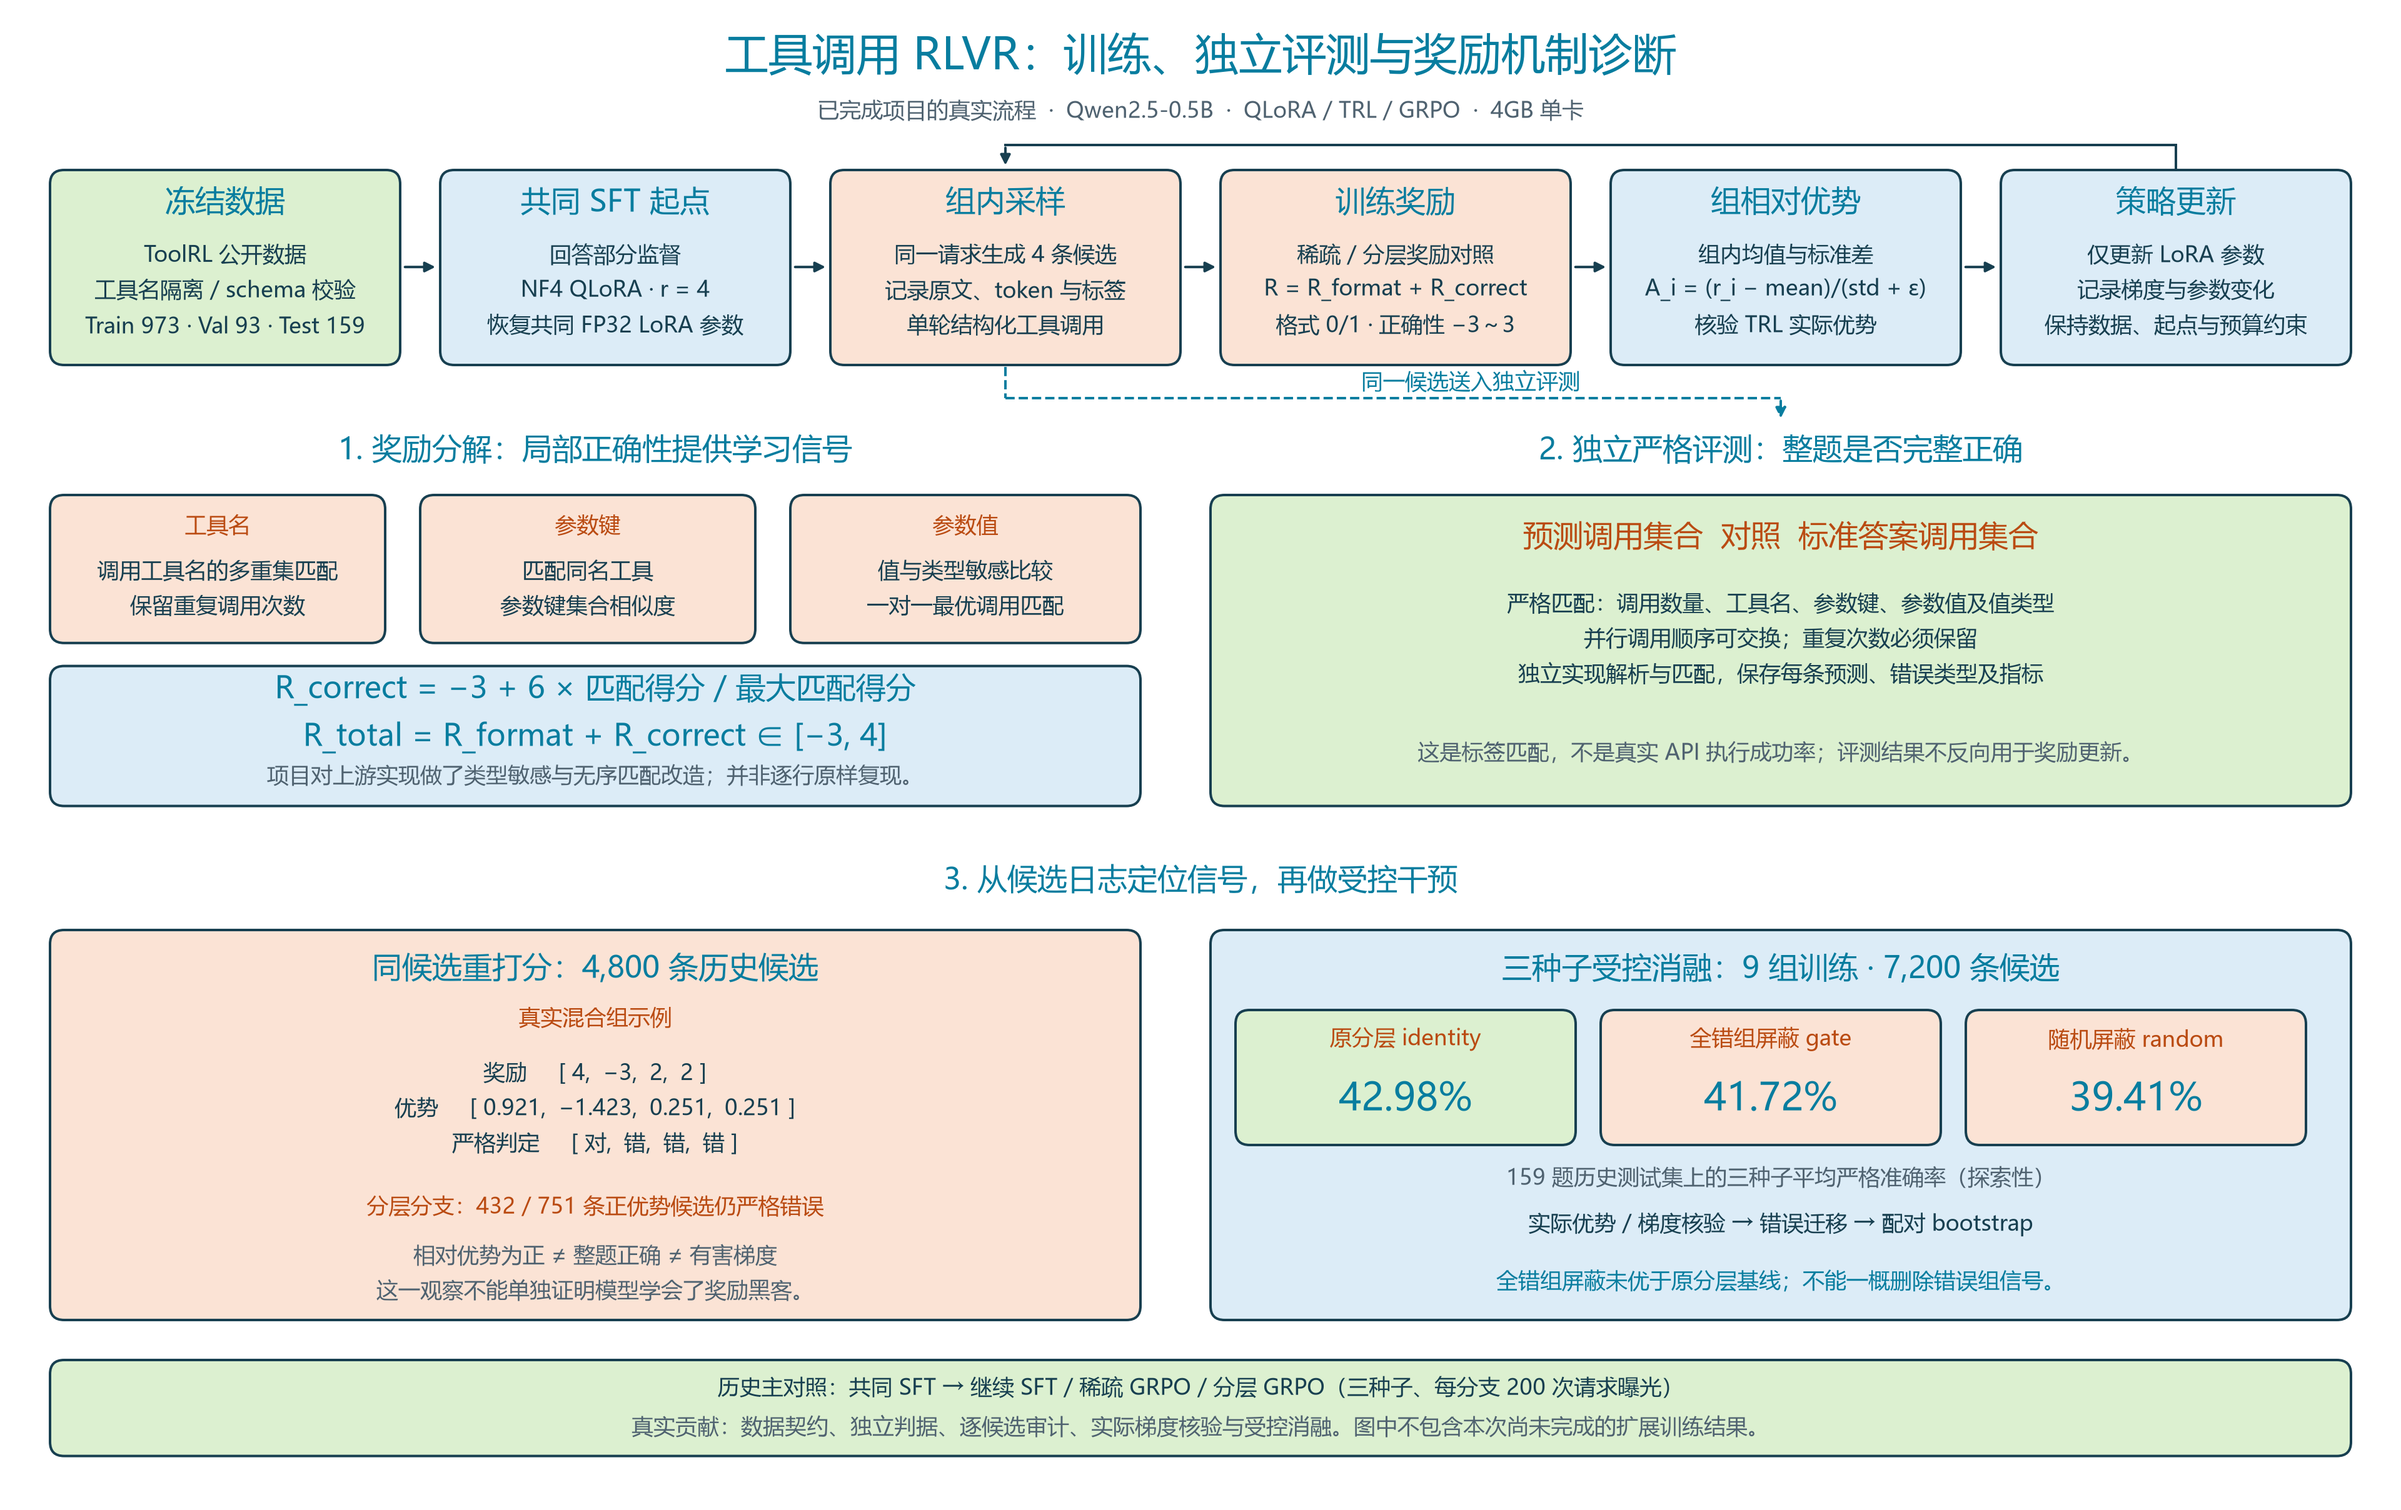
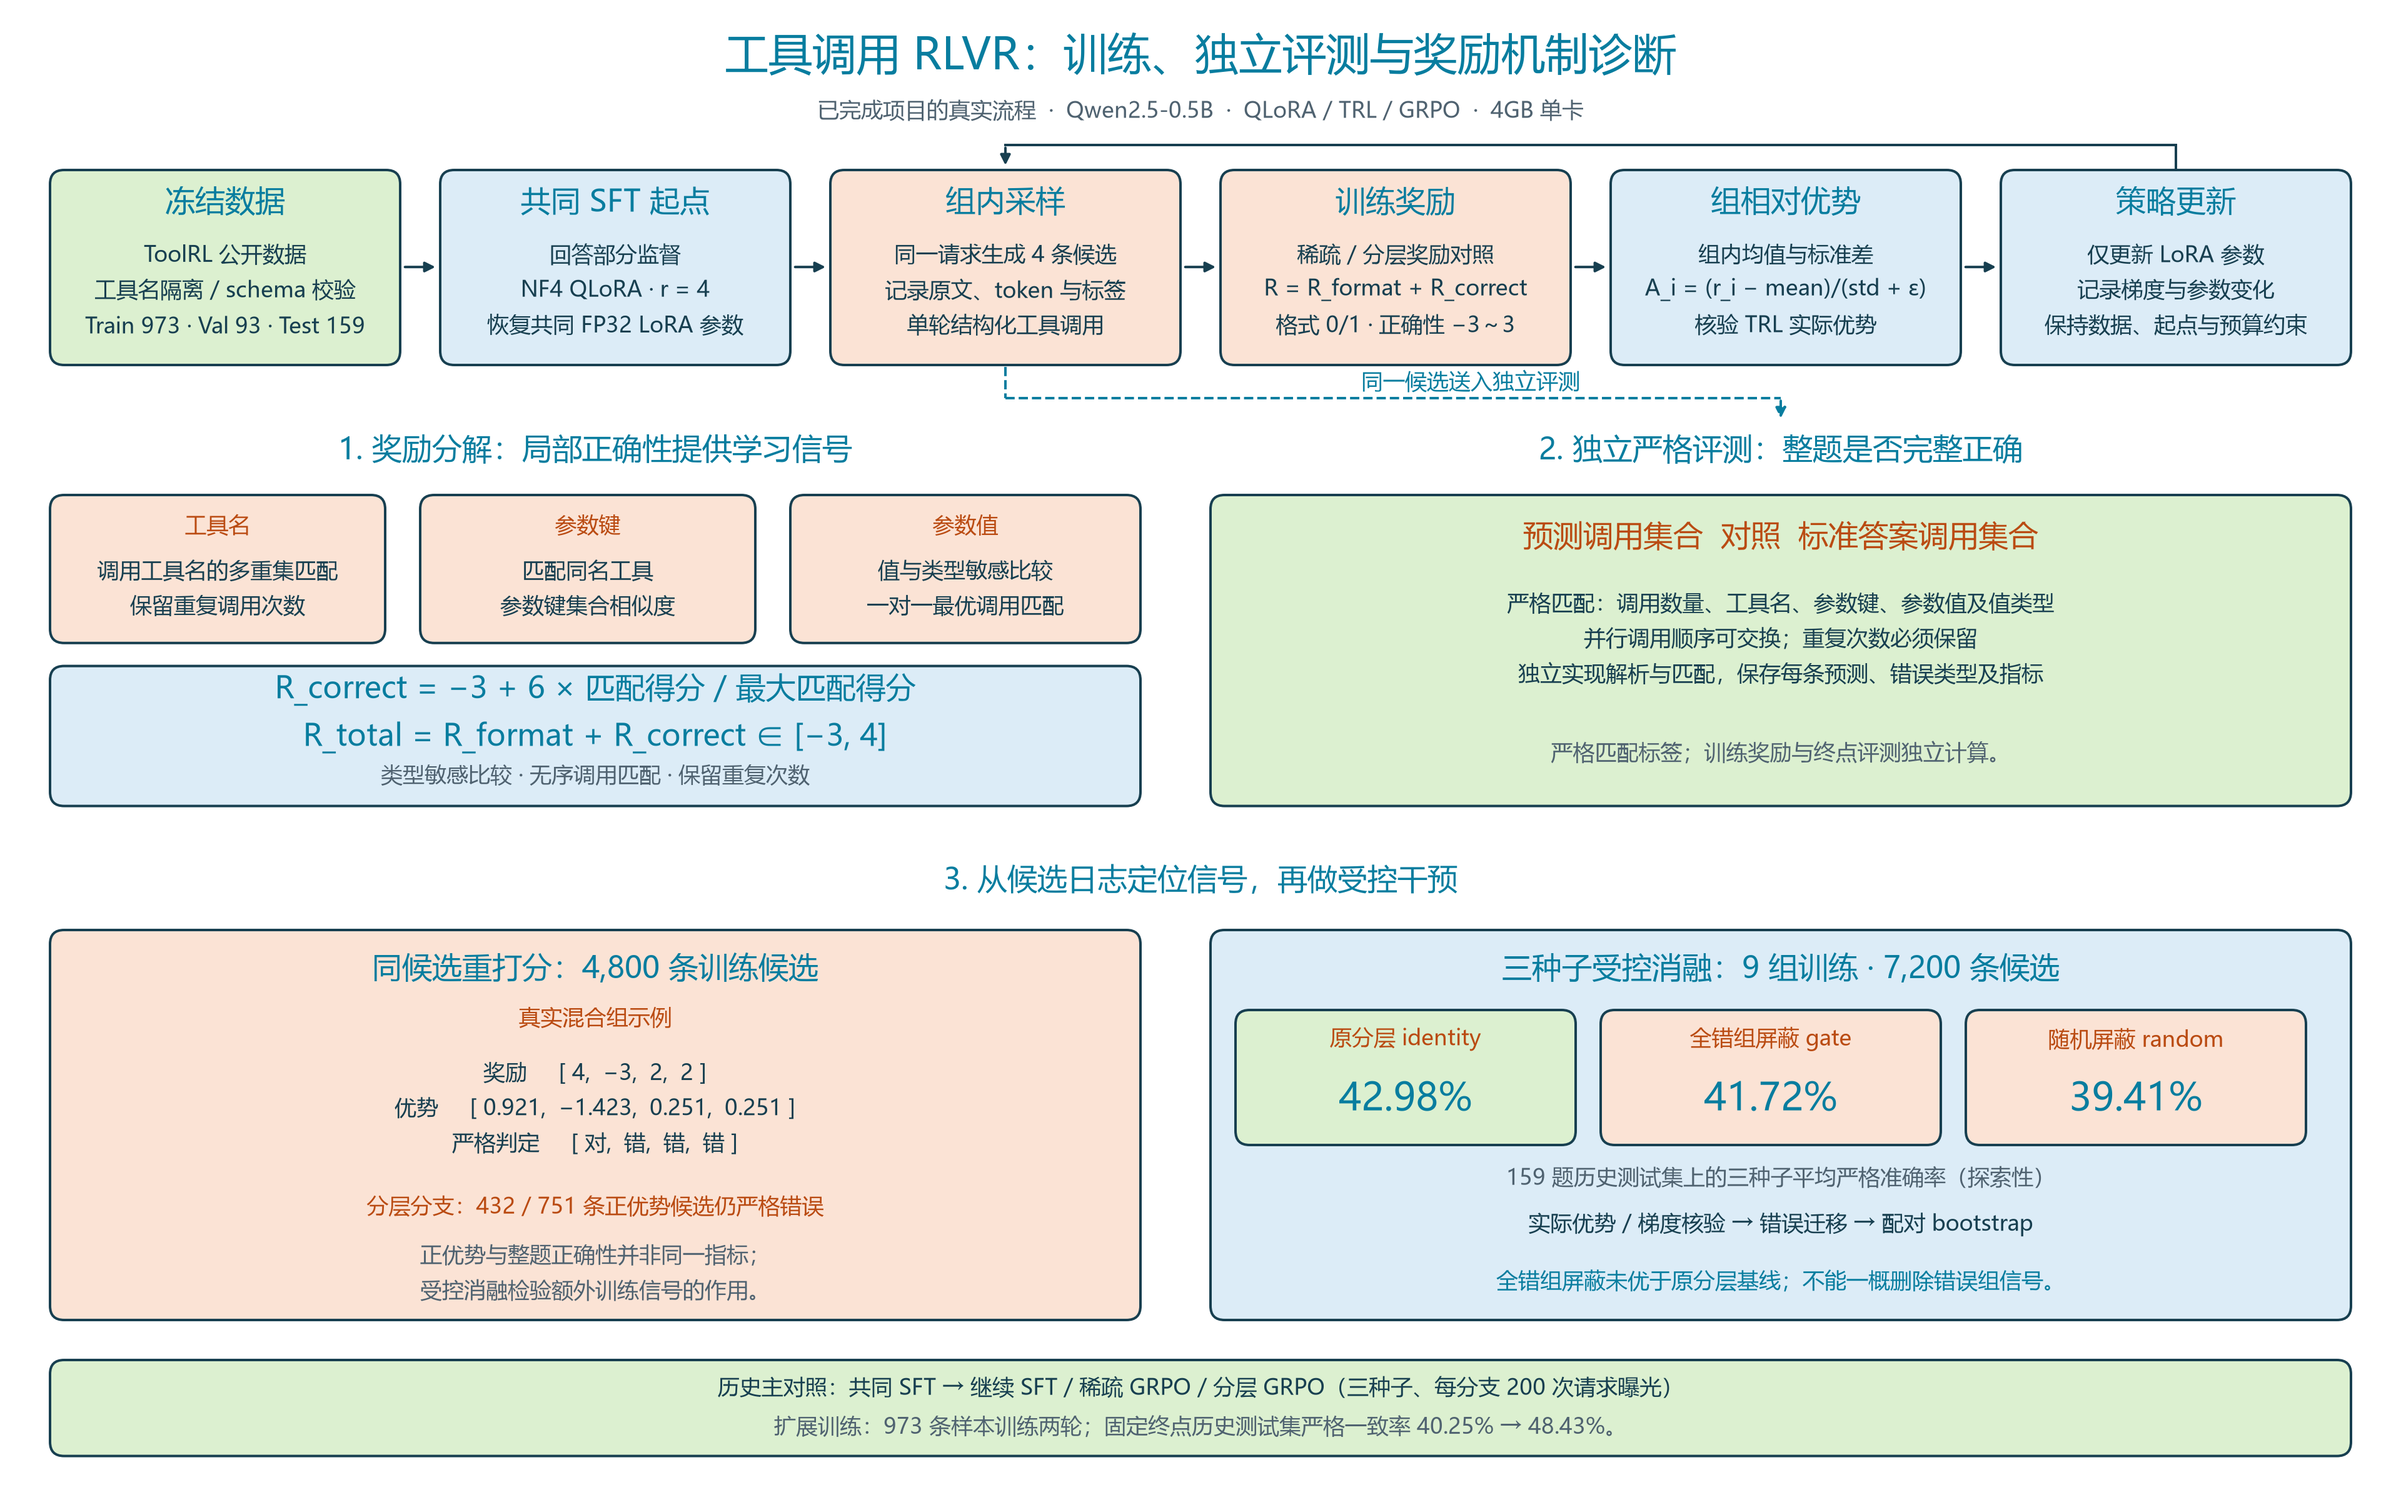
Polish project overview and evidence narrative

diff --git a/README.md b/README.md
@@ -4,7 +4,7 @@
 
 在单张 4GB 显存设备上构建工具调用后训练流程，研究：**分层奖励提供更多局部反馈，是否能提高完整工具调用的正确率？** 项目参考 ToolRL 的奖励分解思想，独立实现类型敏感、调用顺序无关的严格评测，并结合训练候选审计与优势屏蔽检验机制假设。
 
-这是**单轮结构化调用匹配**任务：模型根据工具定义和用户请求输出调用，使用参考答案验证；不执行真实 API，也不等同于多轮 Agent 任务成功率。原论文方法不是本项目性能结果的对照组。
+任务定义为**单轮结构化工具调用**：模型根据工具定义和用户请求生成调用，以参考调用集合的严格匹配作为主要指标。
 
 ## 核心工作与结论
 
@@ -12,12 +12,12 @@
 |---|---|---|
 | 一：数据与训练实现 | 冻结分区、工具名隔离、SFT、NF4 QLoRA、独立判据 | 统一输入、起点、请求曝光预算和评测口径；记录实际优势与参数更新 |
 | 二：主对照与奖励诊断 | 继续 SFT、稀疏 GRPO、分层 GRPO；三种子 | 分层减稀疏为 **−0.84 个百分点，95% 配对 bootstrap 区间 [−2.94, 1.05]**，不支持分层更优 |
-| 三：受控消融 | 原分层、全错组屏蔽、随机屏蔽对照 | 全错组屏蔽未改善本次结果，不能把错误正优势直接解释为有害学习信号 |
-| 扩展：增加训练覆盖 | 完整 973 条训练样本、两轮、单种子 | 固定终点历史测试集严格一致率从 **40.25% 提高至 48.43%**；不构成奖励方法优劣的对照证据 |
+| 三：受控消融 | 原分层、全错组屏蔽、随机屏蔽对照 | 全错组屏蔽为 41.72%，原分层基线为 42.98%，未观察到改进 |
+| 扩展：增加训练覆盖 | 完整 973 条训练样本、两轮、单种子 | 固定终点历史测试集严格一致率从 **40.25% 提高至 48.43%**（单种子扩展） |
 
 <img src="assets/project_overview_original.png" width="1100" alt="数据、后训练、独立评测和奖励诊断流程">
 
-*原项目流程图保留完整机制诊断结构；图中“扩展训练尚未完成”是该图生成时的历史状态，扩展训练的最终结果见文末。*
+*数据、策略更新、独立评测与奖励机制诊断的总体流程；扩展训练结果见最后一节。*
 
 ## 工作一：数据、奖励与训练流程
 
@@ -114,13 +114,13 @@ $$A_i=\frac{R_i-\overline R}{s_R+10^{-4}},$$
 
 ### 同候选离线重评分
 
-固定分层分支训练过程中生成的 **600 组、2400 条候选**（3 个种子×200 次请求×4 条回答），用四套评分设置重算奖励和优势，排除候选文本变化。统计不是共同 SFT 的一次测评，也不是训练结束后重新生成的测试结果，而是整段 GRPO 训练轨迹的回顾分析。
+固定分层分支训练过程中生成的 **600 组、2400 条候选**（3 个种子×200 次请求×4 条回答），用四套评分设置重算奖励和优势，排除候选文本变化。候选来自整个 GRPO 训练过程，统计单位为候选组及组内回答。
 
 <img src="assets/signal_audit.png" width="900" alt="同一候选集合在四种奖励设置下的组内区分信号">
 
 **分层奖励提供更多组内区分信号。** 含格式奖励时，分层与稀疏分别产生 346、230 个非零优势组；移除格式奖励后分别为 333、156 组，差距从 116 组扩大至 177 组。
 
-**更多信号同时伴随更高比例的“未完整答对但优势为正”的回答。** 含格式奖励时，分层有 751 条正优势候选，其中 432 条严格错误（57.52%）；稀疏为 177/496（35.69%）。去掉格式项后，分层仍为 394/710，稀疏为 0/316。分层对部分正确回答给出中间分，因此错误回答也可能高于组平均奖励。这说明正向相对反馈与完整正确并不等价，尚不能证明该反馈有害或模型学会奖励黑客。
+**更多信号同时伴随更高比例的“未完整答对但优势为正”的回答。** 含格式奖励时，分层有 751 条正优势候选，其中 432 条严格错误（57.52%）；稀疏为 177/496（35.69%）。去掉格式项后，分层仍为 394/710，稀疏为 0/316。分层对部分正确回答给出中间分，因此错误回答也可能高于组平均奖励。这说明分层反馈增加了组内区分，同时使更多未完整答对的候选获得正优势；其训练作用由下一节的受控消融检验。
 
 600 组中，289 组的四条候选全部严格错误，其中 189 组在原分层规则下仍有非零优势。下一步检验：**屏蔽这些全错组的组内相对信号，能否改善完整调用正确率？**
 
@@ -129,7 +129,7 @@ $$A_i=\frac{R_i-\overline R}{s_R+10^{-4}},$$
 保留相同起点、数据顺序及预算，开展三个种子、三种设置，共 9 组训练、7200 条候选审计：
 
 - **原分层基线（identity）**：不改变优势。
-- **全错组屏蔽（gate）**：只有四条候选均未完整答对时，才将整组优势置零；含正确候选的组保留。不是屏蔽所有部分正确回答。
+- **全错组屏蔽（gate）**：只有四条候选均未完整答对时，才将整组优势置零；含正确候选的组保留。
 - **随机屏蔽（random，对照）**：以预先固定的概率随机屏蔽组，用来观察减少更新信号本身的影响；概率来自 189/346，不保证每次运行与 gate 屏蔽完全相同数量。
 
 <img src="assets/intervention.png" width="950" alt="三种优势处理设置的性能与配对差异">
@@ -140,9 +140,9 @@ $$A_i=\frac{R_i-\overline R}{s_R+10^{-4}},$$
 | 全错组屏蔽 | 41.72% |
 | 随机屏蔽对照 | 39.41% |
 
-**屏蔽全错组未改善本次结果。** 相对原分层基线，平均差为 −1.26 个百分点，配对区间 [−2.94,0.42] 跨零。因此不支持一概删除全错组信号，也不能确认错误正优势是性能受限的原因。部分正确反馈可能仍含有可用信息，这属于与结果相容的解释，尚未被单独证实。
+**屏蔽全错组未改善本次结果。** 相对原分层基线，平均差为 −1.26 个百分点，配对区间 [−2.94,0.42] 跨零。结果不支持一概删除全错组信号；部分正确性反馈的具体作用仍需进一步区分。
 
-此处基线是机制实验中重新运行的 identity 分支，不能与主对照 41.93% 混用。实际优势与梯度检查用于确认干预执行；按题追踪答对／答错迁移，避免只看均分。后续干预使用已经查看过的历史测试集，结论按探索性解释。
+该实验使用独立运行的 identity 基线，核验实际优势与梯度，并逐题统计正确与错误的迁移。机制干预沿用主对照测试集，属于探索性分析。
 
 ## 扩展训练：覆盖完整训练池
 
@@ -157,11 +157,11 @@ $$A_i=\frac{R_i-\overline R}{s_R+10^{-4}},$$
 | 验证集（93 题） | 32/93，34.41% | 36/93，38.71% | +4.30 个百分点 |
 | 历史测试集（159 题） | 64/159，40.25% | 77/159，48.43% | +8.18 个百分点 |
 
-**该次扩展运行提高了固定终点的严格一致率，但训练后期验证表现回落。** 同时改变了训练覆盖、曝光量及学习率调度长度，无法拆分各因素的贡献；单种子也不能证明稳定收益。验证集和测试集是不同工具、不同题目，二者正确率不必一致，其差异不是模型在同一批题上前后矛盾。历史测试结果用于报告扩展终点，不能继续作为无偏的模型选择依据。
+**该次扩展运行提高了固定终点的严格一致率，但训练后期验证表现回落。** 同时改变了训练覆盖、曝光量及学习率调度长度，无法拆分各因素的贡献；单种子也不能证明稳定收益。验证集用于过程诊断，历史测试集用于固定终点评测。
 
 ## 安装与运行
 
-推荐 Python 3.11、支持 BF16 的 NVIDIA GPU。先按硬件安装 CUDA 版 PyTorch；4GB 是原设备上的实际预算，不保证所有驱动／框架版本均能在相同显存运行。训练路径固定使用 TRL 0.26.2、Transformers 4.57.6、PEFT 0.18.1，升级后需重新校验实际优势与恢复逻辑。
+使用 Python 3.11 和支持 BF16 的 NVIDIA GPU，按设备安装 CUDA 版 PyTorch。训练依赖 TRL 0.26.2、Transformers 4.57.6、PEFT 0.18.1。
 
 ```bash
 python -m pip install -e .
@@ -194,7 +194,7 @@ python scripts/train_mechanism.py --method gate --seed 42 --prepared artifacts/p
 python scripts/rescore.py artifacts/dense42/rollouts.jsonl --out artifacts/rescore42.json
 ```
 
-完整训练池扩展保留原实验的连续训练、完整检查点提交与恢复实现。先生成新运行的冻结协议，再训练；不包含本机的关机或后台调度逻辑：
+完整训练池扩展支持连续训练与完整检查点恢复。先生成冻结协议，再进行预检和训练：
 
 ```bash
 python scripts/prepare_extension.py --prepared artifacts/prepared --adapter artifacts/sft/adapter
@@ -202,7 +202,7 @@ python scripts/train_single.py --preflight
 python scripts/train_single.py
 ```
 
-检查点位于 `artifacts/train/checkpoints/`，`committed.json` 校验通过才可恢复。运行前需要按设备检查内存和显存；完整流程会消耗较长时间。本次仓库整理仅运行自动测试与入口检查，没有重新训练模型。历史实验的图表不是新代码本次运行生成的结果。
+检查点位于 `artifacts/train/checkpoints/`，包含 adapter、优化器、调度器和随机数状态；恢复前通过 `committed.json` 核验完整性。
 
 ## 仓库结构与证据
 
@@ -217,11 +217,11 @@ results/              轻量统计与报告证据
 assets/               原报告图表
 ```
 
-不上传模型权重、原始数据副本、训练环境、完整候选日志及检查点。冻结清单保留公开数据 ID 与哈希；轻量结果供核对报告，完整模型行为复算需自行训练并保存逐条预测。已附 `per_prediction.csv`，保存 1431 次预测的 ID、种子、严格判定和错误分层，不含原始提示词或模型权重。运行 `python scripts/reproduce_statistics.py` 可直接复算主对照正确率、错误分层及关键配对置信区间。`results/summary.json` 明确区分主对照、重评分、机制干预和扩展实验的分母。
+`docs/` 保存冻结数据 ID 与哈希；`results/per_prediction.csv` 保存 1431 次预测的 ID、种子、严格判定和错误分层。运行 `python scripts/reproduce_statistics.py` 可直接复算主对照正确率、错误分层及关键配对置信区间。`results/summary.json` 明确区分主对照、重评分、机制干预和扩展实验的分母。
 
 ## 参考与许可
 
-- Qian et al., [ToolRL: Reward is All Tool Learning Needs](https://arxiv.org/abs/2504.13958), 2025；[原始实现](https://github.com/qiancheng0/ToolRL)。本项目是局部奖励思想的适配实现，不是原论文结果复现。
+- Qian et al., [ToolRL: Reward is All Tool Learning Needs](https://arxiv.org/abs/2504.13958), 2025；[原始实现](https://github.com/qiancheng0/ToolRL)。本项目基于其奖励分解思想实现小模型后训练与机制诊断。
 - Dettmers et al., [QLoRA](https://arxiv.org/abs/2305.14314), 2023。
 - Shao et al., [DeepSeekMath](https://arxiv.org/abs/2402.03300), 2024（GRPO）。
 - 代码按 Apache-2.0 发布；保留 [第三方说明](THIRD_PARTY_NOTICES.txt) 与 [上游许可证](LICENSE.ToolRL.txt)。基座模型、上游数据及第三方框架分别遵循其原始许可。
